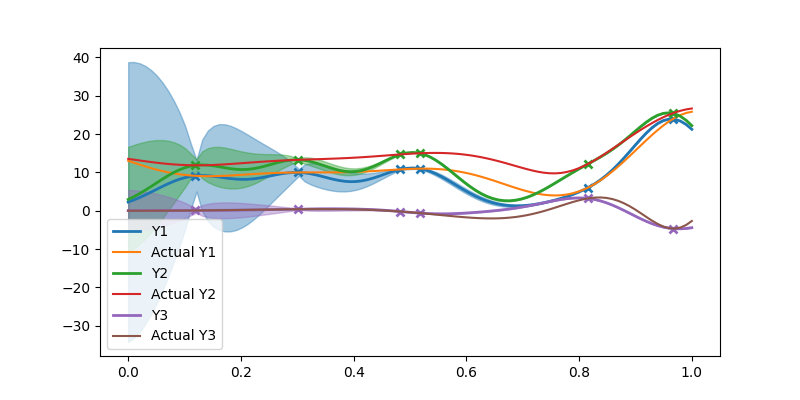
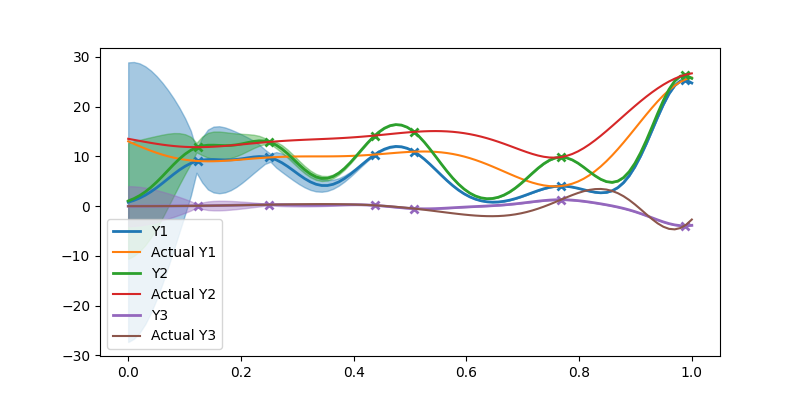
Added DGP model

diff --git a/models/model_trainer.py b/models/model_trainer.py
@@ -17,18 +17,26 @@ class ModelTrainer:
     VALID_KERNEL_NAMES = ['RBF', 'Matern12', 'Matern32', 'Matern52', 'ArcCosine', 'Coregion', 'White', 'NeuralNetwork']
     VALID_LIKELIHOOD_NAMES = ['Gaussian', 'Exponential', 'StudentT', 'Gamma', 'Beta']
 
-    def __init__(self, model_name, optimizer_name, kernel_names, likelihood_name, X, Y, num_outputs):
-        self.num_data, self.num_dim = X.shape
+    def __init__(self, data, optimizer_name, num_outputs):
+        X, Y = data
+        self.num_dim = X.shape[1] - 2  # number of columns minus 2 for label columns
         self.num_outputs = num_outputs  # number of outputs
-
-        self.data = (X, Y)
-
-        self.kernel = gpf.kernels.Product([self.get_kernel(kern, i) for i, kern in enumerate(kernel_names)])
-        self.likelihood = gpf.likelihoods.SwitchedLikelihood(
-            [self.get_likelihood(likelihood_name) for _ in range(self.num_outputs)])
+        self.data = data
+        self.num_layers = int(tf.reduce_max(X[:, -1])) + 1
 
         self.optimizer = self.get_optimizer(optimizer_name)
-        self.model = self.get_model(model_name)
+
+        self.model = None
+
+    def construct_model(self, model_names, base_kernel, likelihood_name):
+        kernel = self.get_kernel(base_kernel)
+        likelihood = gpf.likelihoods.SwitchedLikelihood(
+            [self.get_likelihood(likelihood_name) for _ in range(self.num_outputs)])
+
+        self.model = self.get_model(model_names,
+                                    kernel=kernel,
+                                    likelihood=likelihood,
+                                    data=self.data)
 
     def get_likelihood(self, likelihood_name: str) -> gpf.likelihoods.ScalarLikelihood:
         if isinstance(likelihood_name, gpf.likelihoods.ScalarLikelihood):
@@ -46,47 +54,45 @@ class ModelTrainer:
         raise Exception(
             f"Please enter a valid likelihood name. {likelihood_name} is not in {self.VALID_LIKELIHOOD_NAMES}.")
 
-    def get_kernel(self, kernel_name: str, i: int) -> gpf.kernels.Kernel:
+    def get_kernel(self, kernel_name: str) -> gpf.kernels.Kernel:
+        coreg = gpf.kernels.Coregion(output_dim=self.num_outputs, rank=self.num_dim, active_dims=[self.num_dim])
+        coreg.W = np.random.rand(self.num_outputs, self.num_dim)
         if isinstance(kernel_name, gpf.kernels.Kernel):
             return kernel_name
         if kernel_name == 'RBF':
-            return gpf.kernels.RBF(active_dims=[0])
+            return gpf.kernels.RBF(active_dims=list(range(self.num_layers - 1))) * coreg
         if kernel_name == 'Matern12':
-            return gpf.kernels.Matern12(active_dims=[0])
+            return gpf.kernels.Matern12(active_dims=list(range(self.num_layers - 1))) * coreg
         if kernel_name == 'Matern32':
-            return gpf.kernels.Matern32(active_dims=[0])
+            return gpf.kernels.Matern32(active_dims=list(range(self.num_layers - 1))) * coreg
         if kernel_name == 'Matern52':
-            return gpf.kernels.Matern52(active_dims=[0])
+            return gpf.kernels.Matern52(active_dims=list(range(self.num_layers - 1))) * coreg
         if kernel_name == 'ArcCosine':
-            return gpf.kernels.ArcCosine(active_dims=[0])
+            return gpf.kernels.ArcCosine(active_dims=list(range(self.num_layers - 1))) * coreg
         if kernel_name == 'NeuralNetwork':
-            return NeuralNetKernel(base_kernel=gpf.kernels.RBF(), active_dims=[0])
-        if kernel_name == 'Coregion':
-            kernel = gpf.kernels.Coregion(output_dim=self.num_outputs, rank=self.num_dim, active_dims=[1])
-            kernel.W = np.random.rand(self.num_outputs, self.num_dim)
-            return kernel
+            return NeuralNetKernel(base_kernel=gpf.kernels.RBF(), active_dims=list(range(self.num_layers - 1))) * coreg
         if kernel_name == 'White':
             return gpf.kernels.White()
         raise Exception(
             f"Please make sure all kernels are valid. {kernel_name} is not one of {self.VALID_KERNEL_NAMES}.")
 
-    def get_model(self, model_name) -> gpf.models.GPModel:
+    def get_model(self, model_name, kernel, likelihood, data) -> gpf.models.GPModel:
         if isinstance(model_name, gpf.models.GPModel):
             return model_name
         if model_name == 'multi-fidelity-gp':
-            return MultiFidelityGP(self.data, kernel=self.kernel, likelihood=self.likelihood, num_outputs=3)
+            return MultiFidelityGP(data, kernel=kernel, likelihood=likelihood, num_outputs=3)
         if model_name == 'multi-task-gp':
-            return MultiTaskGP(self.data, kernel=self.kernel, likelihood=self.likelihood, num_outputs=self.num_outputs)
+            return MultiTaskGP(data, kernel=kernel, likelihood=likelihood, num_outputs=self.num_outputs)
         if model_name == 'VGP':
-            return gpf.models.VGP(self.data, kernel=self.kernel, likelihood=self.likelihood,
+            return gpf.models.VGP(data, kernel=kernel, likelihood=likelihood,
                                   num_latent_gps=1)
         if model_name == 'GPR':
-            return gpf.models.GPR(self.data, kernel=self.kernel)
+            return gpf.models.GPR(data, kernel=kernel)
         if model_name == 'GPMC':
-            return gpf.models.GPMC(self.data, kernel=self.kernel, likelihood=self.likelihood, num_latent_gps=1)
+            return gpf.models.GPMC(data, kernel=kernel, likelihood=likelihood, num_latent_gps=1)
         if model_name == 'difference':
-            return DiffModel(self.data, kernel=self.kernel, likelihood=self.likelihood, num_outputs=self.num_outputs)
-        raise Exception(f"Please enter a valid models name: one of {self.VALID_MODEL_NAMES}")
+            return DiffModel(data, kernel=kernel, likelihood=likelihood, num_outputs=self.num_outputs)
+        raise Exception(f"Please enter a valid models name: one of {self.VALID_MODEL_NAMES}.")
 
     def get_optimizer(self, optimizer_name):
         if optimizer_name == 'scipy':
@@ -95,11 +101,13 @@ class ModelTrainer:
             return tf.optimizers.Adam()
         raise Exception(f"Please enter a valid optimizer name: one of {self.VALID_OPTIMIZERS}")
 
-    def train_model(self, disp=False):
+    def train_model(self, model=None, disp=False):
+        if model is None:
+            model = self.model
         if isinstance(self.optimizer, gpf.optimizers.Scipy):
             # see https://docs.scipy.org/doc/scipy/reference/generated/scipy.optimize.minimize.html for information
-            self.optimizer.minimize(self.model.training_loss,
-                                    variables=self.model.trainable_variables,
+            self.optimizer.minimize(model.training_loss,
+                                    variables=model.trainable_variables,
                                     options=dict(disp=disp),
                                     method="L-BFGS-B")
             tf.print("Done training models!")

diff --git a/models/multi_fidelity_deep_gp.py b/models/multi_fidelity_deep_gp.py
@@ -1,0 +1,123 @@
+import copy
+from typing import List, Tuple, Union
+
+import gpflow as gpf
+import tensorflow as tf
+import numpy as np
+from gpflow.base import TensorLike
+
+from kernels.neural_network_kernel import NeuralNetKernel
+
+from .model_trainer import ModelTrainer
+
+
+class MultiFidelityDeepGPTrainer(ModelTrainer):
+    VALID_KERNEL_NAMES = ['RBF', 'NeuralNetwork']
+
+    def __init__(self, data: TensorLike, num_outputs: int, optimizer_name: str):
+        """
+        Instantiates a multi fidelity deep GP trainer.
+        :param data: The data, in the form (X, Y). Note that X and Y should have n_dim + 2 columns:
+                        1. The n_dim columns are the actual data in n dimensions.
+                        2. The second column should be labels for which output is which, i.e.
+                           which function is evaluated.
+                        3. The last column should be labels for the fidelity. Highest fidelity has
+                           the highest number, lowest fidelity should be 0.
+                    Hence, the data should have (num_examples x num_outputs) rows and n_dim + 2 columns.
+        :param num_outputs: The number of outputs
+        :param optimizer_name: The name of the optimizer
+        """
+        super().__init__(data=data,
+                         optimizer_name=optimizer_name,
+                         num_outputs=num_outputs)
+        X, Y = self.data
+
+        tf.config.run_functions_eagerly(True)  # currently there's a bug where this needs to be enabled for gather_nd
+        # This turns X and Y into ((num_examples x num_outputs) x 2) separated by labels
+        self.Xs = [X[:, :-1]]
+        self.Ys = [Y[:, :-1]]
+        for i in range(self.num_layers - 1):
+            self.Xs.append(tf.gather_nd(indices=tf.where(X[:, -1] > i), params=X[:, :-1]))
+            self.Ys.append(tf.gather_nd(indices=tf.where(Y[:, -1] > i), params=Y[:, :-1]))
+
+        tf.config.run_functions_eagerly(False)  # turn this back off for performance
+
+        self.trained_models = []
+        self.kernels = []
+        self.likelihoods = []
+        self.model_names = []
+
+    def construct_model(self, model_names, base_kernel, likelihood_name):
+        """
+        Constructs a list of kernels and likelihoods to use for the models.
+        :param model_names: A list of names for the models; i.e. which models to use
+        :param base_kernel: The base kernel to use; i.e. RBF
+        :param likelihood_name: The likelihood to use; i.e. Gaussian
+        :return: None
+        """
+        assert len(model_names) == self.num_layers
+
+        deep_kernels = self.get_deep_kernel(base_kernel)
+        self.kernels = [self.get_kernel(base_kernel)] + deep_kernels
+
+        likelihood = gpf.likelihoods.SwitchedLikelihood(
+            [self.get_likelihood(likelihood_name) for _ in range(self.num_outputs)])
+        self.likelihoods = [copy.deepcopy(likelihood) for _ in range(self.num_layers)]
+
+        self.model_names = model_names
+
+    def train_deep_model(self):
+        """
+        Trains a deep Gaussian Process model by iterating over the layers.
+        :return: None
+        """
+        for i in range(self.num_layers):
+            model = self.get_model(model_name=self.model_names[i],
+                                   kernel=self.kernels[i],
+                                   likelihood=self.likelihoods[i],
+                                   data=(self.Xs[i], self.Ys[i]))
+            print(f"Training Model {i + 1}...")
+            self.train_model(model=model)
+            print(f"Done training model {i + 1}!")
+            self.trained_models.append(model)
+            if i < self.num_layers - 1:
+                mu, _ = model.predict_f(self.Xs[i + 1])
+                self.Xs[i + 1] = tf.concat((self.Xs[i + 1], mu), axis=1)
+
+    def predict(self, X_test):
+        """
+        Predicts the mean and variance of a deep model.
+        :param X_test: The test points
+        :return: The mean and variance of the highest fidelity
+        """
+        mu = tf.zeros(X_test.shape)
+        var = tf.zeros((X_test.shape[0], X_test.shape[0]))
+        for i in range(self.num_layers):
+            mu, var = self.trained_models[i].predict_f(X_test)
+            X_test = tf.concat((X_test[:, :-1], mu), axis=1) if i > 0 else tf.concat((X_test, mu), axis=1)
+        return mu, var
+
+    def get_deep_kernel(self, kernel_name: str) -> List[gpf.kernels.Kernel]:
+        """
+        Gets a kernel for any GP deeper than the first layer.
+        :param kernel_name: The name of the kernel.
+        :return: A list of kernels, one for each layer past the first
+        """
+        kernels = []
+        for i in range(self.num_layers - 1):
+            coreg = gpf.kernels.Coregion(output_dim=self.num_outputs, rank=self.num_dim, active_dims=[self.num_dim])
+            coreg.W = np.random.rand(self.num_outputs, self.num_dim)
+            if kernel_name == 'RBF':
+                kernels.append(
+                    (gpf.kernels.RBF(active_dims=[self.num_dim + 1]) * gpf.kernels.RBF(active_dims=list(range(self.num_layers - 1)))
+                     + gpf.kernels.RBF(active_dims=list(range(self.num_layers - 1)))) * coreg)
+            elif kernel_name == 'NeuralNetwork':
+                kernels.append((NeuralNetKernel(base_kernel=gpf.kernels.RBF(), active_dims=[self.num_dim + 1])
+                                * NeuralNetKernel(base_kernel=gpf.kernels.RBF(), active_dims=list(range(self.num_layers - 1)))
+                                + NeuralNetKernel(base_kernel=gpf.kernels.RBF(),
+                                                  active_dims=list(range(self.num_layers - 1))))
+                               * coreg)
+            else:
+                raise Exception(f"Please make sure all kernels are valid. "
+                                f"{kernel_name} is not one of {self.VALID_KERNEL_NAMES}.")
+        return kernels

diff --git a/main.py b/main.py
@@ -3,6 +3,7 @@ import numpy as np
 from scipy.stats import qmc
 import matplotlib.pyplot as plt
 from models.model_trainer import ModelTrainer
+from models.multi_fidelity_deep_gp import MultiFidelityDeepGPTrainer as DeepTrainer
 
 import os
 
@@ -34,7 +35,7 @@ def fl3(x):
 fh = [fh1, fh2, fh3]
 fl = [fl1, fl2, fl3]
 
-num_lo_fi = 100
+num_lo_fi = 10
 num_hi_fi = 6
 
 sampler = qmc.LatinHypercube(d=1)
@@ -62,21 +63,35 @@ Y = np.vstack((
         np.hstack((fh3(xh), np.ones_like(xh) * 2, np.ones_like(xh)))
 ))
 
-model_name = 'multi-fidelity-gp'
-base_kernel = 'NeuralNetwork'
+model_name = 'DGP'
+base_kernel = 'RBF'
 likelihood_name = 'Gaussian'
-# tf.config.run_functions_eagerly(True)  # currently there's a bug where this must be true for tf.gather_nd to work
 
-trainer = ModelTrainer(
-    model_name=model_name,
+# trainer = ModelTrainer(
+#     data=(X, Y),
+#     optimizer_name='scipy',
+#     num_outputs=3
+# )
+# trainer.construct_model(
+#     model_names=model_name,
+#     base_kernel=base_kernel,
+#     likelihood_name=likelihood_name
+# )
+# trainer.train_model()
+
+deep_trainer = DeepTrainer(
+    data=(X, Y),
     optimizer_name='scipy',
-    kernel_names=[base_kernel, 'Coregion'],
-    likelihood_name=likelihood_name,
-    X=X,
-    Y=Y,
     num_outputs=3
 )
-trainer.train_model()
+
+deep_trainer.construct_model(
+    model_names=['VGP', 'VGP'],
+    base_kernel=base_kernel,
+    likelihood_name=likelihood_name
+)
+
+deep_trainer.train_deep_model()
 
 
 def plot_gp(x, mu, var, color, label):
@@ -112,4 +127,4 @@ def plot(m):
     plt.savefig(f"{path}/{len(sample_hf)}_{len(sample_lf)}")
 
 
-plot(trainer)
+plot(deep_trainer)
